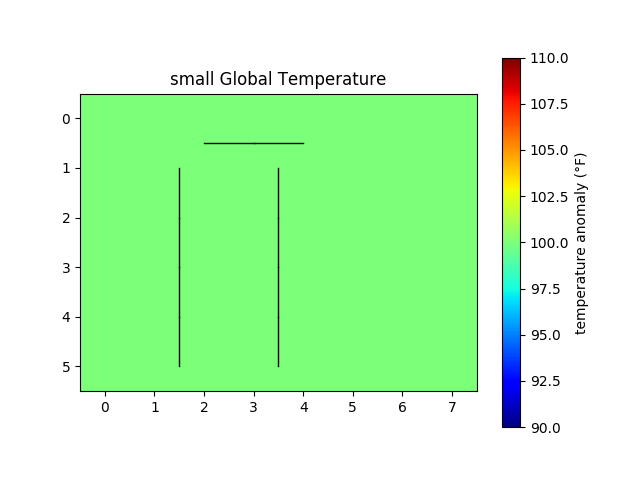
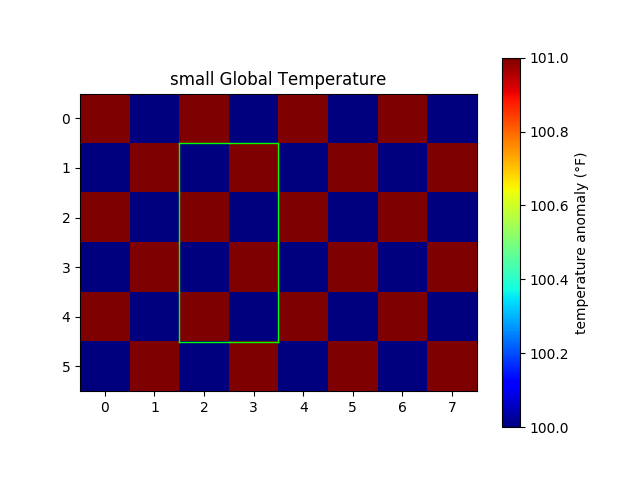
changed pyvisual to vis; fixed bug in vis code causing coastlines to be offset

diff --git a/vis/visualization_bm.py b/vis/visualization_bm.py
@@ -33,7 +33,7 @@ def plot_map(temps, color_map, model_name, coastlines):
         x2 = line[0][1]
         y1 = line[1][0]
         y2 = line[1][1]
-        plt.plot([x1, x2], [y1, y2], color='black', linewidth=1)
+        plt.plot([x1, x2], [y1, y2], color='lime', linewidth=1)
     plt.clim(minimum, maximum)
     plt.savefig(os.path.join(PYCLI_ROOT, "models/{}/{}.png".format(model_name, model_name)))
         
@@ -66,8 +66,8 @@ def get_coast(surface_array):
                 candidate = center + side     # coordinates of candidate tile
 
                 # point is off the edge - skip
-                if candidate[0] < 0 or candidate[0] >= yDim - 1\
-                    or candidate[1] < 0 or candidate[1] >= xDim - 1:
+                if candidate[0] < 0 or candidate[0] > yDim - 1\
+                    or candidate[1] < 0 or candidate[1] > xDim - 1:
                     continue
                 
                 # check if adjacent tile is ocean
@@ -75,16 +75,16 @@ def get_coast(surface_array):
                     x1, x2, y1, y2 = None, None, None, None 
                     # on the same row 
                     if candidate[0] == center[0]:
-                        y1 = center[0]
-                        y2 = center[0] + 1
+                        y1 = center[0] - 0.5
+                        y2 = center[0] + 0.5
                         x1 = (center[1] + candidate[1])/2
                         x2 = x1
                     # on the same col 
                     else:
                         y1 = (center[0] + candidate[0])/2
                         y2 = y1
-                        x1 = center[1]
-                        x2 = center[1] + 1
+                        x1 = center[1] - 0.5
+                        x2 = center[1] + 0.5
 
                     lines.add(((x1, x2), (y1, y2)))
     print("Number of lines: ", len(lines))
